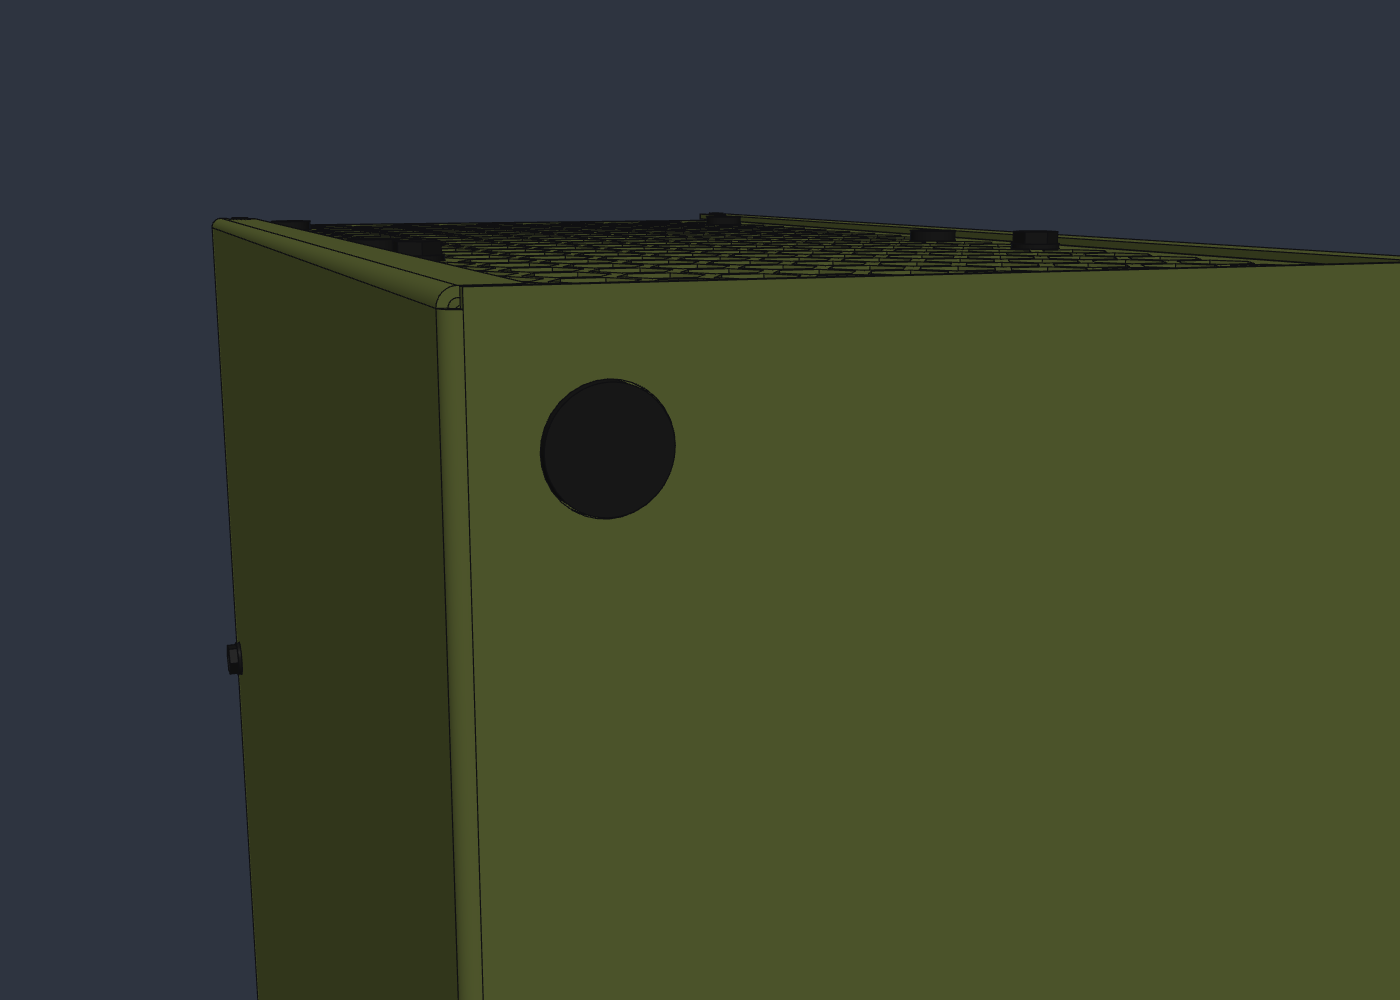
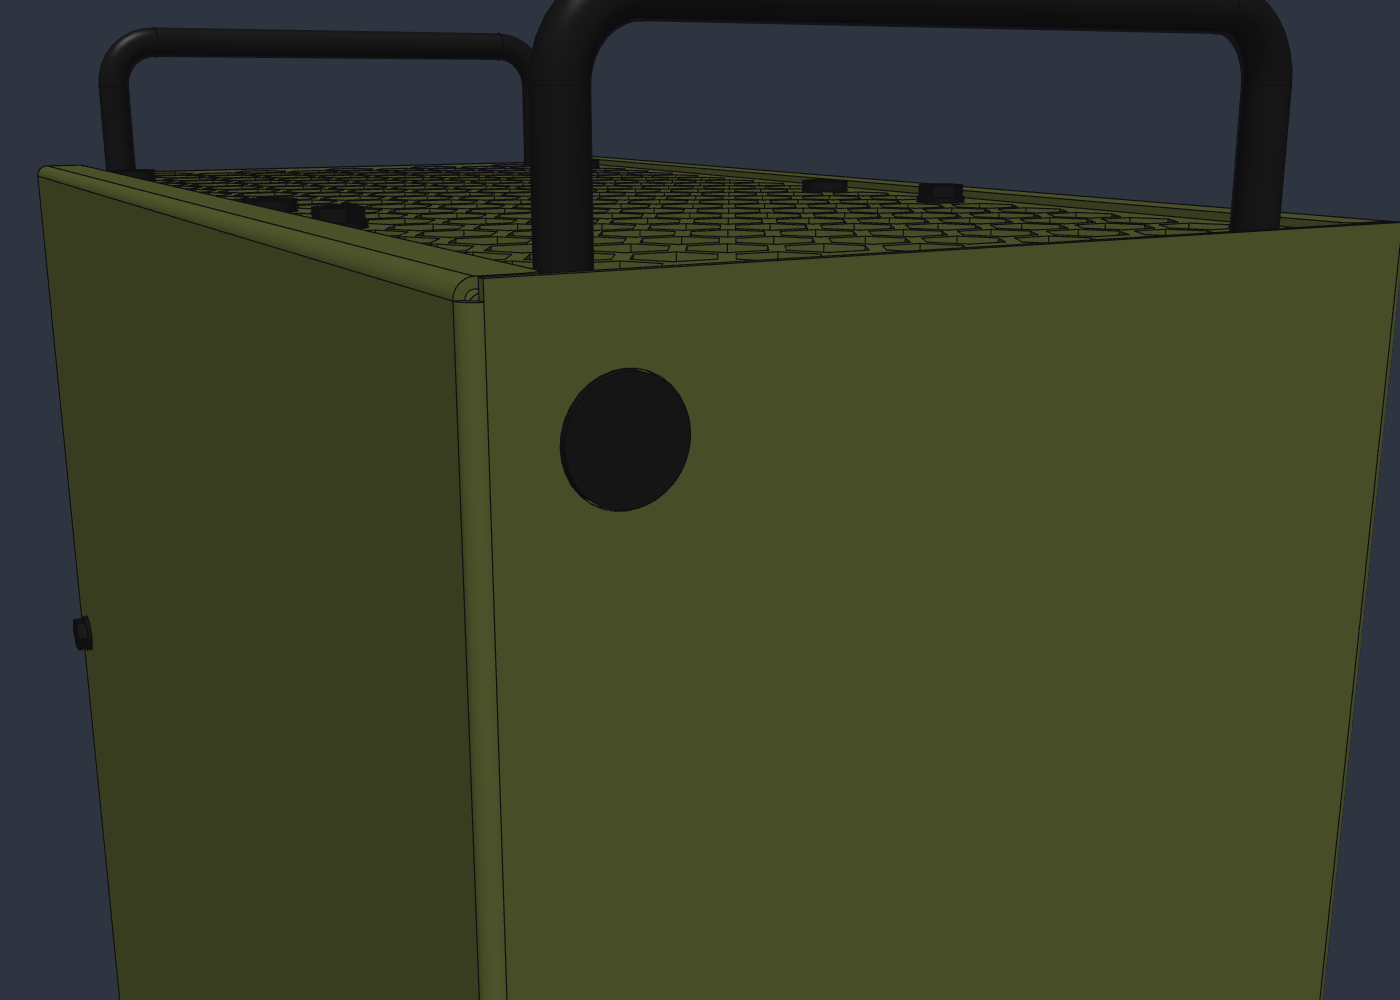
docs: describe the handles, the shell's two screws and the rule check

Changed region(s): [[0.0307, 0.0, 1.0, 1.0], [0.3686, 0.372, 0.4914, 0.527], [0.3379, 0.837, 0.3686, 1.0]]

diff --git a/docs/before-ordering.md b/docs/before-ordering.md
@@ -1,28 +1,28 @@
 # Before ordering a Mk I
 
 What has been checked, what is still open, and what goes to a shop. Updated
-2026-11-12.
+2026-11-17.
 
 ## What a shop gets
 
 Everything is in [mechanical/export/](../mechanical/export/):
 
 - `reactor-mk-i-drawings.pdf`: general arrangement, the riveted assembly with
-  its thirteen rivets, and a sheet for each part with its flat pattern,
+  its fourteen rivets, and a sheet for each part with its flat pattern,
   bends, holes and notes.
 - For each of the five parts a STEP model, a DXF flat pattern and a bend table.
 - `foot.step` and `foot-drawing.pdf`, for whoever prints the feet: one model,
   four off. The drawing is also the last sheet of the set.
 
 The shop is Fabworks. It cuts and bends five parts in its 0.048 in (1.2 mm)
-1008 steel and presses in eleven PEM studs, standoffs and nuts, all on its
-hardware list: four BSO-632-12ZI, four FH-632-6ZI and three S-632-1ZI. The
-five parts come loose. Riveting the tray and bulkhead to the core and
-tapping the four M2 holes are done at home.
+1008 steel and presses in twelve PEM studs, standoffs and nuts, all on its
+hardware list: four BSO-632-12ZI, four FH-632-6ZI and four S-632-1ZI. The
+five parts come loose. Riveting the tray and bulkhead to the core is done at
+home. Nothing is tapped or countersunk by the shop.
 
 ## Checked
 
-- Clashes: the whole assembly, 82 bodies with every screw, nut, stud and fan
+- Clashes: the whole assembly, 91 bodies with every screw, nut, stud, handle and fan
   in place, has no two parts sharing volume apart from threads in what they
   screw into. Framework's own board model sits on the four standoffs to
   0.00 mm, 0.5 inside the rear panel, 3.0 under the top fan, 7.0 over the
@@ -46,7 +46,18 @@ tapping the four M2 holes are done at home.
   are drawn with its inside radius of 1.0 and K of 0.516, flanges are 9.5 or
   more (6.8 needed, 8.4 advised), and its hardware holes are the ones cut:
   4.8 for the nuts, 3.5 for the studs, 5.4 for the standoffs. Mesh webs are
-  2.07. Features within 5.1 of a bend may distort; those are listed below.
+  2.07. [mechanical/dfm.py](../mechanical/dfm.py) measures every cut-out
+  in the five flat patterns against its published figures, read 2026-11-17:
+  the smallest is 2.0 across (0.51 needed), the thinnest web 2.07 (1.22
+  needed), and none is within 5.11 of a bend line, the zone a bend can
+  distort. Getting there moved the shell's screws to 7.6 from the rear,
+  made the open side's rear lip 15, and moved the shelf's rear wall to 2.1
+  behind the supply.
+- Handles: RAF 8120-632-A-24, 4 in between centres, against Fascomp's
+  drawing of the same part. Each leg has 2.2 of metal to the nearest mesh
+  cell and is 3.4 inside the shell's flange; the screw heads under the top
+  panel are 5.5 from the rear panel, 11.3 from the top fan and clear of
+  the switch and of every part of the board.
 - Rivets: each is 7 or more from its lip's edge and from the bend, with a
   bar's width of flat behind it inside. Flush outside and 1.5 at most
   inside, which the 0.3 to 0.5 outside the lips and the 2.8 between the tray
@@ -58,14 +69,14 @@ tapping the four M2 holes are done at home.
   slots, and 1.8 of each is in or through the bulkhead, which the 0.25 of
   play at the top screws cannot undo.
 - Fits that depend on two bent parts are loose: the shell is 0.5 clear of
-  the lips all round, the nub slots 0.5 a side, and the clearance holes for
+  the lips all round, and the clearance holes for
   the shelf's screws 4.5.
 
 ## Open: needs the part in hand
 
 - Mains lead: a ready-made one, a straight screw-mount C14 to a side-angle
   C13, 0.6 long. Its plug points the cable across the top of the supply to
-  the grommet hole at the tray's side of the shelf, and the lead then runs
+  the notch in the top of the shelf's rear wall, at the tray's side, and the lead then runs
   down the gap between the board and the supply, past the tie slots, along
   the bottom and across between the two bottom fans to the inlet: about 450
   of cable, 500 with slack, which is what a 0.6 lead has between its
@@ -81,7 +92,7 @@ tapping the four M2 holes are done at home.
     relied on: check it on the supply, and the "Left" one is the same price.
   - Still to measure: how far the plug stands above the supply, which has
     34, and the lead's real length.
-  - It crosses the supply's exhaust grille on its way to the grommet, and
+  - It crosses the supply's exhaust grille on its way to the notch, and
     it has no safety listing.
 
 ## Open: before the order
@@ -90,10 +101,15 @@ tapping the four M2 holes are done at home.
   about bending the core and the shell. Both are deep U shapes with return
   lips, and whether a press brake reaches every bend has not been checked by
   anyone who has one.
-- Close to bends, inside Fabworks' 5.1 distortion zone: the four M2 holes
-  (1.9), the shell's slots (about 3), the supply's front holes and the
-  shelf's grommet hole (4). All are clearance or tapped by hand afterwards.
-  The shell's four slots are the ones to watch: they have 0.5 a side.
+- Fabworks presses hardware in after bending and needs a press on both
+  sides of each hole. The two nuts in the rear panel's side lips are 7.6
+  from the rear panel, inside the corner, and the four studs are in the
+  floor of the core. Ask whether its tooling reaches them.
+- The handles: two RAF 8120-632-A-24 (Fascomp FC8120-632-A-24), black
+  anodised. AFT Fasteners lists them in tens. The plain stainless
+  8120-632-SS is the same size if the black one is out of stock.
+- Edge trim or a snap-on edge grommet for the mains lead's notch in the
+  shelf, 12 wide in 1.2 sheet.
 - The shell's outside faces want to arrive unmarked, and Fabworks says die
   marks show on every bend. Ask.
 - The feet are printed in 316L stainless steel and tapped 6-32 by a 3D
@@ -103,17 +119,16 @@ tapping the four M2 holes are done at home.
 ## To do at home
 
 Tools: a 100 degree countersink, a flat punch and a hammer, a steel bar to
-hold against the rivets' tails, an M2 x 0.4 tap, and thirteen MS20426AD3-4
-rivets with a few spare.
+hold against the rivets' tails, and fourteen MS20426AD3-4 rivets with a
+few spare. McMaster-Carr sells them as 96685A146, Aircraft Spruce and Van's
+Aircraft by weight.
 
-1. Countersink the thirteen 2.5 holes in the core's lips from outside, to
+1. Countersink the fourteen 2.5 holes in the core's lips from outside, to
    4.6 across, until a rivet's head sits flush.
-2. Rivet the tray to the side lips, nine rivets, then the bulkhead to the
+2. Rivet the tray to the side lips, ten rivets, then the bulkhead to the
    front lips, four: head outside, the bar against the tail inside, until
    the tail is 3 to 4 across and about 1 tall.
-3. Tap the four 1.6 holes at the rear corners of the top and bottom panels
-   M2 and screw in the four pins.
-4. Paint, if wanted, with the threads, studs and standoff bores masked.
+3. Paint, if wanted, with the threads, studs and standoff bores masked.
 
 ## Known limits of what has been checked
 
@@ -126,12 +141,15 @@ rivets with a few spare.
 
 ## Putting one together
 
-1. Feet onto their studs with the PH2 screwdriver, then a bumper into each
-   foot's recess, over the cross slot. Supply onto the shelf with three 6-32 screws, exhaust face up.
+1. Handles onto the top panel first, a screw up into each leg from inside,
+   while the core is empty: the board and the shelf stand under them later.
+   Feet onto their studs with the PH2 screwdriver, then a bumper into each
+   foot's recess, over the cross slot. Supply onto the shelf with its 6-32
+   screws, three or six as the unit has threads, exhaust face up.
 2. Fans into the core, board onto its standoffs, heatsink fan, mains inlet.
    Cables tied to the tray's slots between the board and the supply.
 3. Shelf in through the open side, low, then up against the top panel and
    forward until its three tongues are in the bulkhead's slots. Two screws
    down through the top panel.
 4. Switch through the bulkhead, wiring, then the shell on from the front and
-   its one screw in the open side, at the rear and halfway up.
+   its two screws, one in each side, at the rear and halfway up.

diff --git a/docs/parts.md b/docs/parts.md
@@ -106,7 +106,7 @@ width with the earth pin nearest the fan, and the switch is beside it on
 the far side from the fan. That is from the makers' pictures and from
 Justin; the model's
 supply follows that. The mains lead's plug points its cable across the top
-of the supply to a grommet hole at the tray's side of the shelf, since a
+of the supply to a notch in the top of the shelf's rear wall, at the tray's side, since a
 plug angled at the shelf's rear wall, 25 from the inlet, would land on the
 shelf. SFX-L
 units, 130 long, have not been checked.
@@ -119,18 +119,19 @@ supply is a plain SFX box; its noise paragraph was written around the SF750
 
 Every screw on the case is the 6-32 hex washer head screw used for PC cases
 and 3.5 in drives, 1/4 in long, apart from the fan screws, the mains inlet's
-two and the four M2 pins the shell slides onto.
+two. It has a Phillips recess in its hexagon, so one PH2 driver turns
+every one of them, the feet too.
 
 | Where | Screw | Into | Hole in the sheet |
 | --- | --- | --- | --- |
 | Fans, twelve | ordinary self-tapping fan screw, about 5 x 10 | the fan's own frame | 5.0 clearance |
 | Board, four | 6-32 | PEM BSO-632-12 standoff, 9.53 long, in the tray | 5.41 +0.08, 6.9 or more from an edge |
-| Supply, three | 6-32 | the supply's own threads | 4.0 clearance in the shelf, six holes |
+| Supply, three or six | 6-32 | the supply's own threads: three by Intel's guide, six on a unit threaded for both ways round | 4.0 clearance in the shelf, six holes, 5.2 or more from the rear wall's bend line |
 | Shelf to top panel, two | 6-32 | PEM S-632-1 nut in each shelf tab | 4.76 +0.08, 5.6 or more from an edge; 4.5 clearance in the top panel |
 | Feet, four | none: the foot is tapped 6-32 and turns on | PEM FH-632-6 flush-head stud, 9.53 long, in the bottom panel, pointing down | 3.5 +0.08, 6.4 or more from an edge |
 | Mains inlet, two | countersunk M3, flush in the inlet's flange | a plain M3 nut | 3.5 clearance |
-| Shell's pins, four | M2 socket head cap, left in for good | a thread tapped in the top and bottom panels | 1.6 tap drill |
-| Shell, one | 6-32 | PEM S-632-1 nut in the rear panel's open-side lip | 4.76 +0.08, 5.8 from the lip's edge and from its bend; 4.5 clearance in the shell's side |
+| Shell, two | 6-32 | PEM S-632-1 nut in each side lip of the rear panel | 4.76 +0.08, 7.6 from the rear panel: 5.5 from the bend line and 6.2 from the edge of the open side's 15 lip; 4.5 clearance in each side of the shell; the tray is notched 9.0 wide round the nut on its side |
+| Handles, four | 6-32, up from under the top panel | the handle's own thread, 3/8 in deep | 4.5 clearance in the top panel |
 
 The PEM figures are from PennEngineering's FH, CL and SO bulletins, read
 2026-11-11; all three take sheet from 1.02 up. The standoffs are 9.53 where
@@ -162,16 +163,17 @@ shell for its strap, which suits ties 2.5 or 3.6 wide (1.0 to 1.3 thick).
 A lanced bridge would hold a tie without going behind the tray, but it is
 a formed feature that laser-and-brake shops do not make.
 
-The four M2 screws are nubs for the shell's slots to run onto, their heads
-(3.8 across, 2 tall) standing proud of the panel, and they stay in. One
-ordinary 6-32 case screw holds the shell: through its open-side panel 7 from
-the rear and halfway up, into a nut in the rear panel's lip. Its head stands 2.4 proud of the side, and it comes out with the
-case standing where it is. Pressed-in pilot pins were ruled
-out for the nubs: PEM's TPS-3mm comes only 8 long and wants 6.4 from hole
-centre to edge, and not every shop stocks pins. The slots are 0.5 clear of the
-nubs each side, since both parts are bent and a bend is good to about 0.4.
+Two ordinary 6-32 case screws hold the shell, one through each side, 7.6
+from the rear and halfway up, into a nut in the rear panel's side lip. Each
+head stands 2.8 proud of the side, and both come out with the case standing
+where it is. They also hold the rear edges of the sides in. The shell's
+flanges over the top and under the bottom are plain. An earlier version had
+one screw and four M2 cap screws at the rear corners as nubs for slots in
+the flanges: the M2 holes were 1.9 from a bend where Fabworks asks for 5.1,
+Fabworks does not tap M2, and they were the only screws on the case that
+needed a hex key.
 
-The tray is riveted to the core's side lips at nine places and the bulkhead
+The tray is riveted to the core's side lips at ten places and the bulkhead
 to its front lips at four, by hand, with 3/32 in flush solid rivets,
 MS20426AD3-4 (2117 aluminium, 100 degree head 0.179 in across and 0.036 in
 tall, 1/4 in long, in a No. 40 hole; from Olander's and Hanson's tables, read
@@ -182,14 +184,18 @@ the shell passes 0.5 from the side lips and 0.3 from the front ones, and the
 fans' frames stand 2.8 inside the tray, less than a blind rivet's tail. The
 lips are 17 tall (18.5 and 28 at the front) and each rivet is 9.5 from the
 panel its lip is folded from. PEM's SpotFast was drawn first, and no
-prototyping shop found lists it or joins parts.
-shop would rather weld.
+prototyping shop found lists it or joins parts. The rivet is a standard
+aircraft part, used by the thousand in kit aircraft: McMaster-Carr sells it
+as 96685A146 (250 for about $8), and Aircraft Spruce and Van's Aircraft by
+weight, read 2026-11-17. For the 2.4 of sheet here 1/4 in is the right
+length, grip plus one and a half diameters.
 
 | Part | Fit | Notes |
 | --- | --- | --- |
 | 120 fan | four holes on 105 x 105 | 120 x 120 x 15 slim, as the NF-A12x15 |
 | Power button | 12.0 hole in the bulkhead, nut behind it; 14.5 hole in the shell for its 14 head | 12 mm vandal switch. Sizes from Justin, who has the part: the body is a plain 12 cylinder inside the case, and the nut needs a 16 circle to turn. Its head is 14 across |
 | IEC C14 inlet, screw mount | 28 x 20 cut-out +0.2/0, corners R1 (R3 at most), two 3.5 holes 40 apart | Schurter 6100-3 (6100.3200 with 4.8 tabs), mounted from outside: flange 48 x 23, countersunk for M3, 23.5 behind the panel. From its datasheet, read 2026-11-11. The same cut-out takes Bulgin's PX0580 and Schurter's 6061. The lead to the supply is made up: see before-ordering.md |
+| Handles, two | two 4.5 holes 101.6 apart, a 6-32 screw up into each leg | RAF 8120-632-A-24, also Fascomp FC8120-632-A-24: 6061 aluminium, black anodised, 1/4 in rod, 4.000 +/-0.031 in between the legs, 1 1/4 in tall, 1/4 in bend radius, each leg tapped 6-32 5/16 to 3/8 in deep. From Fascomp's drawing, read 2026-11-17; it does not say that the 4 in is between centres, which is taken from RAF's drawing of the family. The 4.5 holes allow for the +/-0.8. One across the rear of the top and one across the front, legs 9.5 from each end. 8120-632-SS is the same in plain stainless, and 8130 is 1 1/2 in tall |
 | Feet | a 6-32 stud standing 9.5 out of the bottom panel | Our own part, one model made four times, [foot.step](../mechanical/export/foot.step) and [its drawing](../mechanical/export/foot-drawing.pdf), also the last sheet of the drawings: a 20 flange 2 thick over a cone from 17 to 12, 18 tall, printed in 316L stainless steel and tapped 6-32 right through, with a 9.0 x 1.5 recess underneath for a 3M Bumpon SJ5076 pad (8.0 x 2.8) and, in the recess's floor around the hole, a cross of two slots 1.6 x 6.0, 2.5 deep, to tighten it with the same PH2 screwdriver as the case's screws; the pad goes on over the cross and keeps three fifths of its face. A screw from inside is no good, since each foot is under the corner of a fan's frame, so the thread is a flush stud in the panel |
 
 ## Still to collect

diff --git a/README.md b/README.md
@@ -4,7 +4,7 @@ A small, quiet mini-ITX case for boards that have all their graphics on the
 CPU.
 
 The first design, the Mk I, is drawn and checked and close to orderable:
-255 x 134 x 216 mm without its feet, 7.4 litres, for an SFX power supply.
+255 x 134 x 216 mm without its feet and handles, 7.4 litres, for an SFX power supply.
 None has been built yet, so everything here is a model and a simulation.
 
 ![The Mk I from the front](docs/images/mk1-front.png)
@@ -95,14 +95,21 @@ three, they win.
   supply on it: three tongues on its front edge sit in slots in the bulkhead,
   two screws through the top panel hold it, and nothing stands over the
   supply's own screws when it is out. Four pairs of slots in the tray, between the
-  board and the supply, take cable ties. The shell slides on from the front, slots in its
-  flanges running onto screw heads at the four rear corners, and one
-  ordinary case screw through its side, at the rear and halfway up, holds it
-  there. Four steel feet, printed
-  and tapped, turn onto studs under the bottom panel. Apart from the fan
-  screws, the mains inlet's and the shell's four pins, every screw is the
-  one 6-32 case screw, so a single Phillips driver opens the case and takes
-  out the shelf and the supply.
+  board and the supply, take cable ties. The shell slides on from the front, its
+  flanges over the top panel and under the bottom one, and an ordinary case
+  screw through each side, at the rear and halfway up, holds it there. Two
+  black handles of bent 1/4 in rod cross the top, one at the rear and one at
+  the front, each leg held by a case screw from underneath. Four steel feet,
+  printed and tapped, turn onto studs under the bottom panel. Apart from the
+  fan screws and the mains inlet's two, every screw is the one 6-32 case
+  screw, feet and handles included, so a single Phillips driver opens the
+  case and takes out the shelf and the supply.
+
+  ![The handles and the top](docs/images/mk1-top-detail.png)
+- [mechanical/dfm.py](mechanical/dfm.py) measures every cut-out in the flat
+  patterns against the shop's rules, and
+  [mechanical/renders.py](mechanical/renders.py) redraws the pictures in
+  [docs/images/](docs/images/) from the assembly.
 - [docs/before-ordering.md](docs/before-ordering.md) lists what has been
   checked and what is still open before one can be ordered.
 - [docs/parts.md](docs/parts.md) has the dimensions of the bought-in parts,
